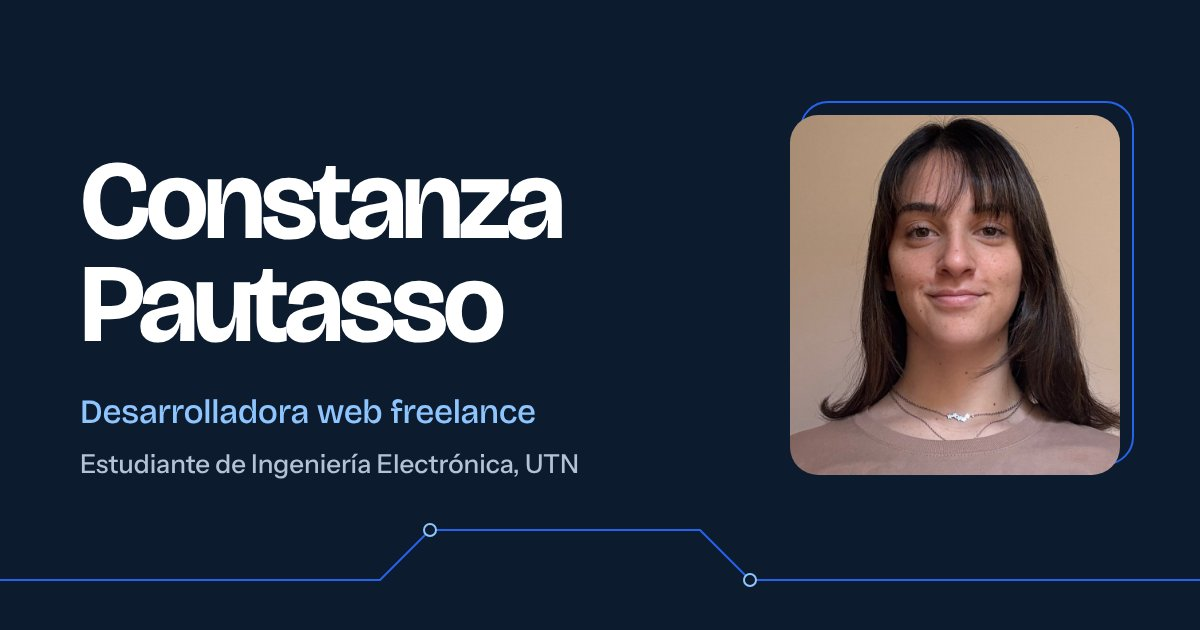
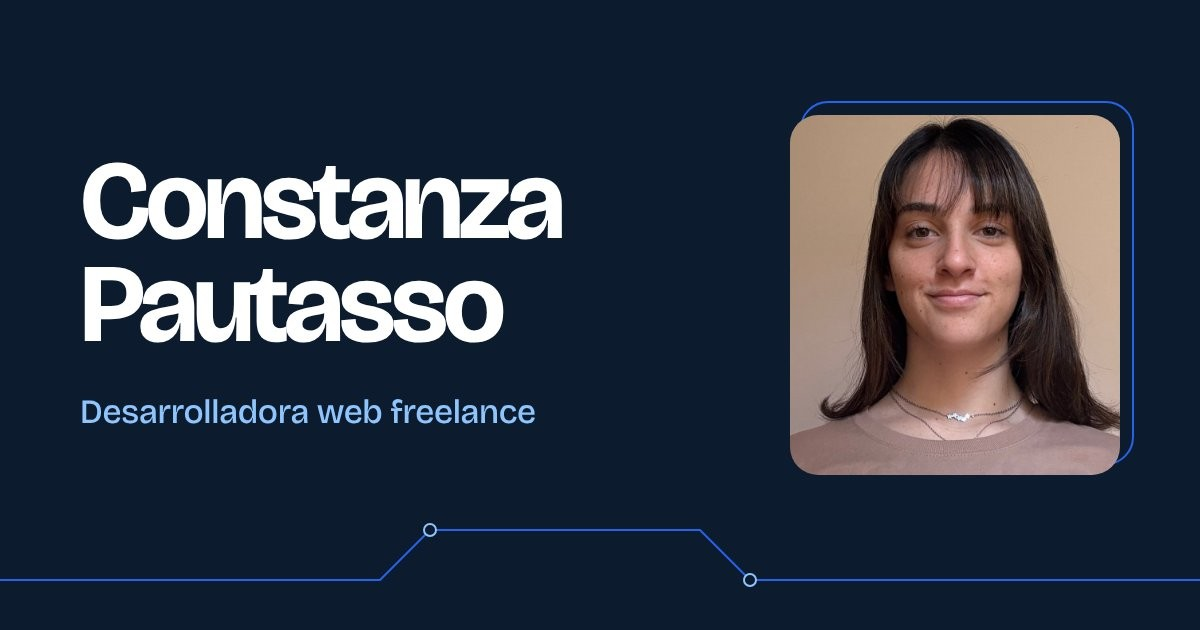
Quitar menciones de estudios en la UTN
Claude-Session: https://claude.ai/code/session_01UKPyvtCQQQ3uJkRbJ81CFH

Changed region(s): [[0.0617, 0.7238, 0.4933, 0.754]]

diff --git a/index.html b/index.html
@@ -3,8 +3,8 @@
 <head>
   <meta charset="utf-8">
   <meta name="viewport" content="width=device-width, initial-scale=1">
-  <title>Constanza Pautasso | Desarrolladora web y estudiante de Ingeniería</title>
-  <meta name="description" content="Portfolio y CV de Constanza Pautasso, de Córdoba, Argentina. Diseño y desarrollo de sitios web y tiendas online para emprendimientos. Bachiller en Desarrollo de Software y estudiante de Ingeniería Electrónica en la UTN.">
+  <title>Constanza Pautasso | Desarrolladora web freelance</title>
+  <meta name="description" content="Portfolio y CV de Constanza Pautasso, de Córdoba, Argentina. Diseño y desarrollo de sitios web y tiendas online para emprendimientos. Bachiller en Desarrollo de Software.">
   <meta name="author" content="Constanza Pautasso">
   <meta name="theme-color" content="#0D1B2E">
   <meta name="robots" content="index, follow">
@@ -15,7 +15,7 @@
   <meta property="og:type" content="profile">
   <meta property="og:locale" content="es_AR">
   <meta property="og:title" content="Constanza Pautasso | Desarrolladora web freelance">
-  <meta property="og:description" content="Sitios web y tiendas online para emprendimientos. Estudiante de Ingeniería Electrónica en la UTN.">
+  <meta property="og:description" content="Sitios web y tiendas online para emprendimientos.">
   <meta property="og:url" content="https://constanzapautasso.github.io/">
   <meta property="og:image" content="https://constanzapautasso.github.io/assets/img/og-image.jpg">
   <meta property="og:image:width" content="1200">
@@ -126,8 +126,8 @@
         <div class="hero-copy">
           <p class="status"><span class="status-dot" aria-hidden="true"></span>Disponible para trabajar, full time</p>
           <h1 class="hero-title" id="hero-title">Constanza<br>Pautasso</h1>
-          <p class="hero-role">Desarrolladora web freelance y estudiante de Ingeniería Electrónica</p>
-          <p class="hero-lead">Diseño y desarrollo sitios web y tiendas online para emprendimientos: desde el presupuesto hasta el mantenimiento. Bachiller en Desarrollo de Software y, desde 2026, estudiante en la UTN.</p>
+          <p class="hero-role">Desarrolladora web freelance</p>
+          <p class="hero-lead">Diseño y desarrollo sitios web y tiendas online para emprendimientos: desde el presupuesto hasta el mantenimiento. Bachiller en Desarrollo de Software.</p>
 
           <div class="hero-actions">
             <a class="btn btn-primary" href="assets/cv/CV-Constanza-Pautasso.pdf" download>
@@ -160,10 +160,6 @@
             <source srcset="assets/img/constanza-pautasso.webp" type="image/webp">
             <img src="assets/img/constanza-pautasso.jpg" width="828" height="904" alt="Retrato de Constanza Pautasso" fetchpriority="high">
           </picture>
-          <figcaption class="photo-chip">
-            <svg class="icon" aria-hidden="true"><use href="#i-cpu"/></svg>
-            <span>Ingeniería Electrónica, UTN</span>
-          </figcaption>
         </figure>
       </div>
     </section>
@@ -176,7 +172,7 @@
         </header>
 
         <div class="about-text" data-reveal>
-          <p class="about-lead">Me formé como Bachiller en Desarrollo de Software en la Escuela ProA y hoy estudio Ingeniería Electrónica en la UTN. Me interesa entender la tecnología de punta a punta: desde el código de una página hasta el hardware que la hace funcionar.</p>
+          <p class="about-lead">Me formé como Bachiller en Desarrollo de Software en la Escuela ProA. Me interesa entender la tecnología de punta a punta: desde el código de una página hasta el hardware que la hace funcionar.</p>
           <p>Desde 2024 trabajo de forma freelance diseñando y desarrollando sitios web para emprendimientos. Me ocupo del proyecto completo: armo el presupuesto, hablo con cada cliente, construyo el sitio o la tienda online y después lo mantengo actualizado. También genero contenido visual para que cada negocio se comunique mejor en redes.</p>
           <p>Llevo adelante mis propios emprendimientos, y trabajé en atención al público y cobro en eventos. Esas experiencias me enseñaron a organizarme, a resolver con el cliente enfrente y a aprender rápido cuando algo es nuevo.</p>
           <p>Busco mi primera experiencia laboral formal, en un equipo donde pueda seguir creciendo en lo técnico y aportar compromiso, iniciativa y responsabilidad.</p>
@@ -208,7 +204,6 @@
       <div class="container">
         <header class="section-head" data-reveal>
           <h2 id="formacion-title">Formación académica</h2>
-          <p>Una base en software que ahora completo con electrónica.</p>
         </header>
 
         <ol class="edu" data-reveal>
@@ -219,17 +214,6 @@
               <div>
                 <h3>Bachiller en Desarrollo de Software</h3>
                 <p class="edu-inst">Escuela ProA</p>
-              </div>
-            </div>
-          </li>
-          <li class="edu-item edu-current">
-            <p class="edu-period"><time datetime="2026">2026</time> a la actualidad</p>
-            <div class="edu-body">
-              <span class="edu-icon" aria-hidden="true"><svg class="icon"><use href="#i-cap"/></svg></span>
-              <div>
-                <h3>Ingeniería Electrónica</h3>
-                <p class="edu-inst">Universidad Tecnológica Nacional (UTN)</p>
-                <p class="badge">En curso</p>
               </div>
             </div>
           </li>

diff --git a/README.md b/README.md
@@ -1,6 +1,6 @@
 # Constanza Pautasso | Portfolio y CV digital
 
-Sitio personal de **Constanza Pautasso**, desarrolladora web freelance y estudiante de Ingeniería Electrónica en la UTN (Córdoba, Argentina).
+Sitio personal de **Constanza Pautasso**, desarrolladora web freelance (Córdoba, Argentina).
 
 Sitio estático hecho con HTML5, CSS3 y JavaScript sin frameworks ni dependencias. Funciona en GitHub Pages sin backend ni servicios pagos.
 
